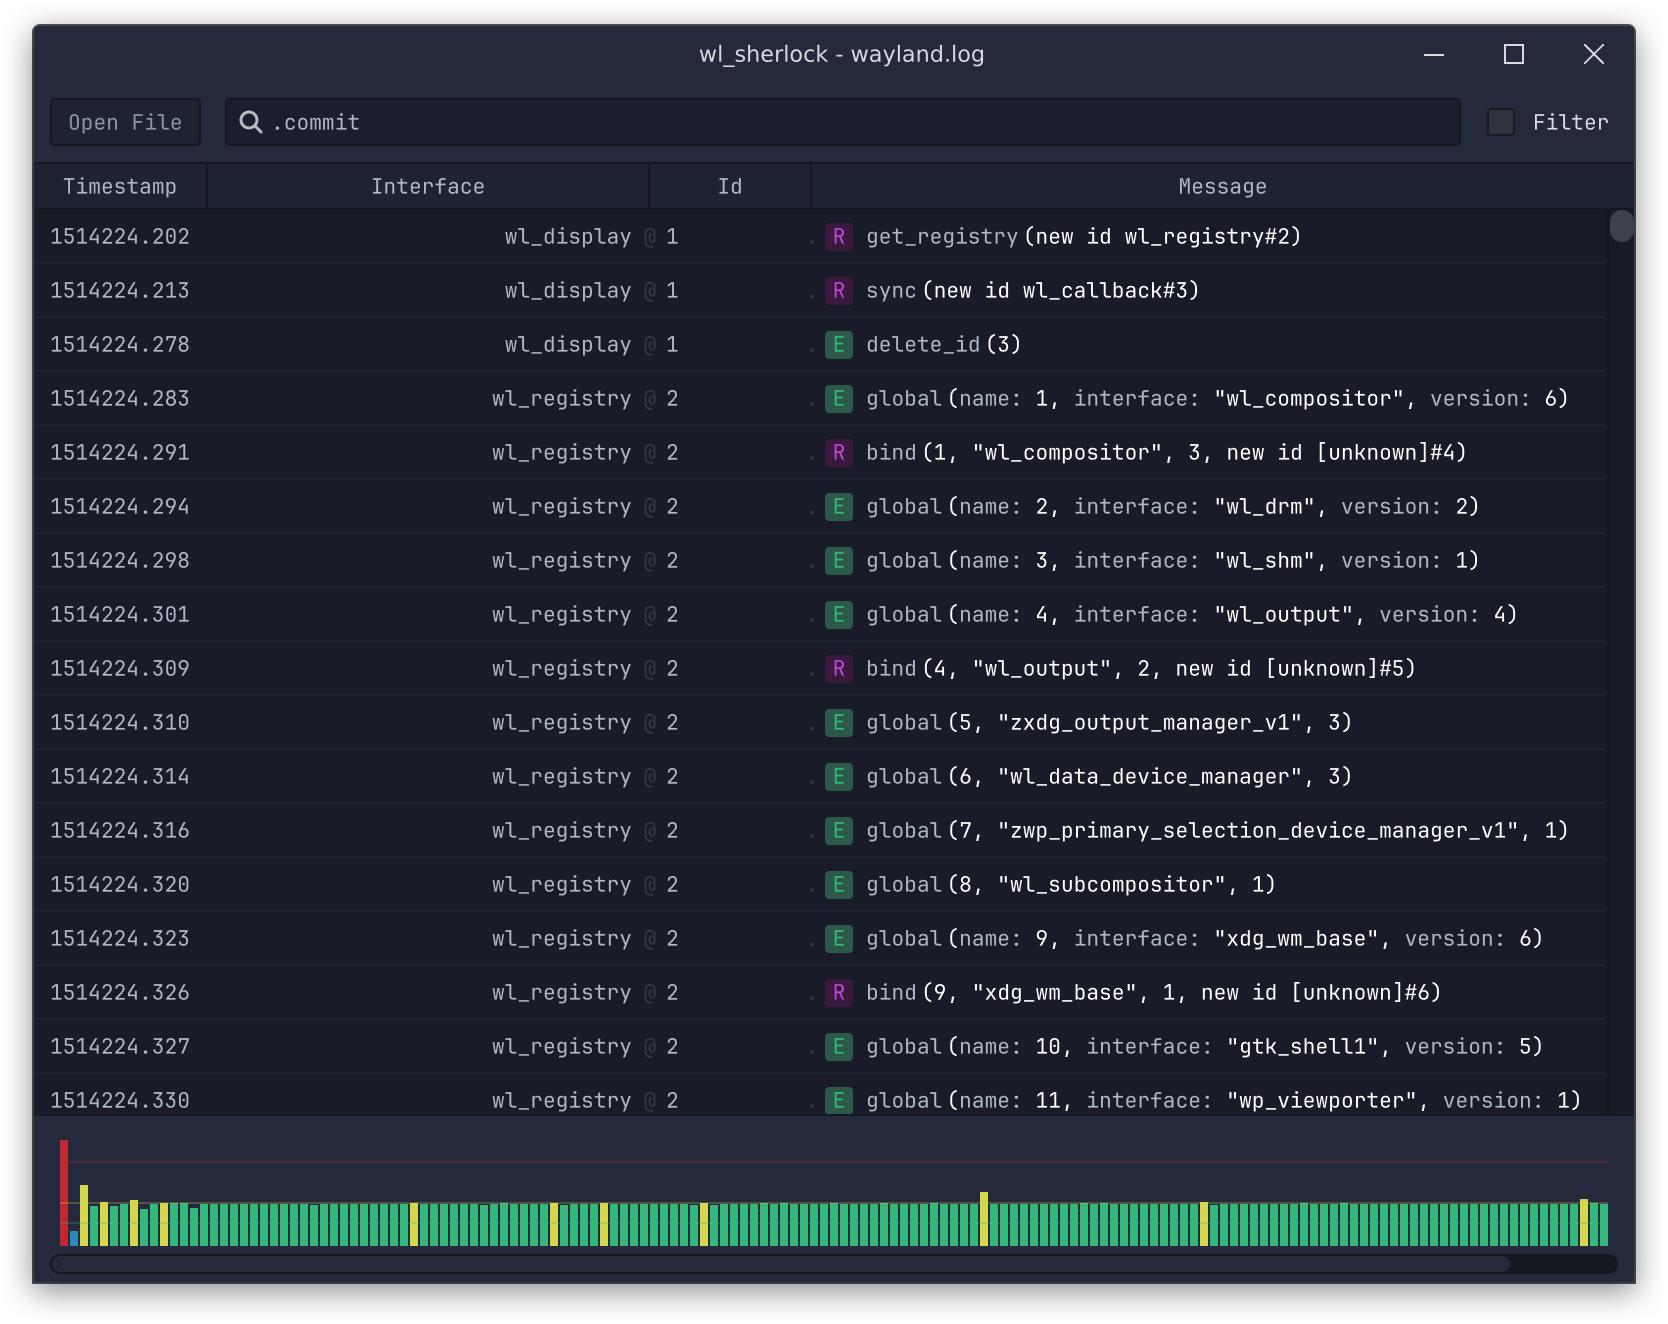
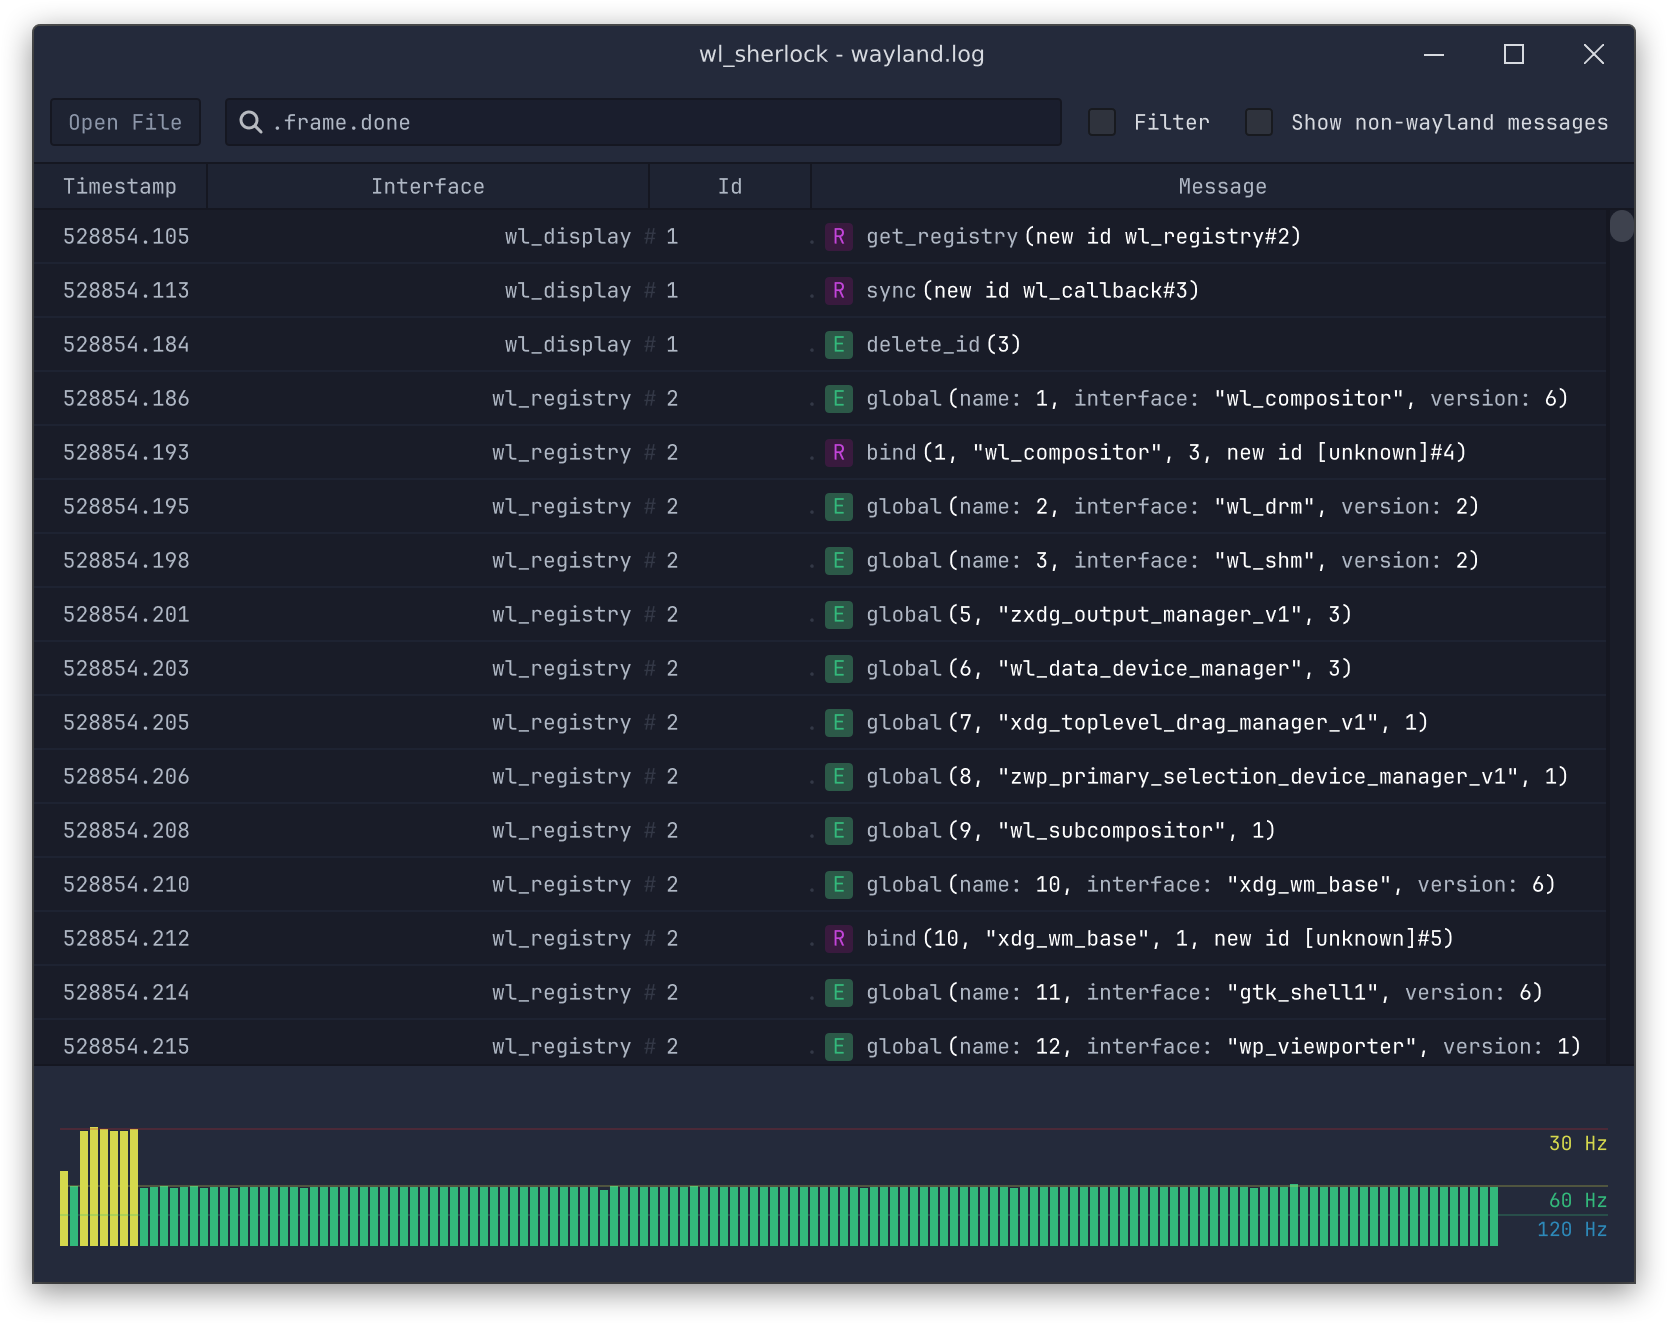
Bump to version 0.4.0

diff --git a/CHANGELOG.md b/CHANGELOG.md
@@ -2,6 +2,8 @@
 
 ## [Unreleased]
 
+## [0.4.0] - 2025-09-17
+
 ### Added
 
  - Show non-wayland messages
